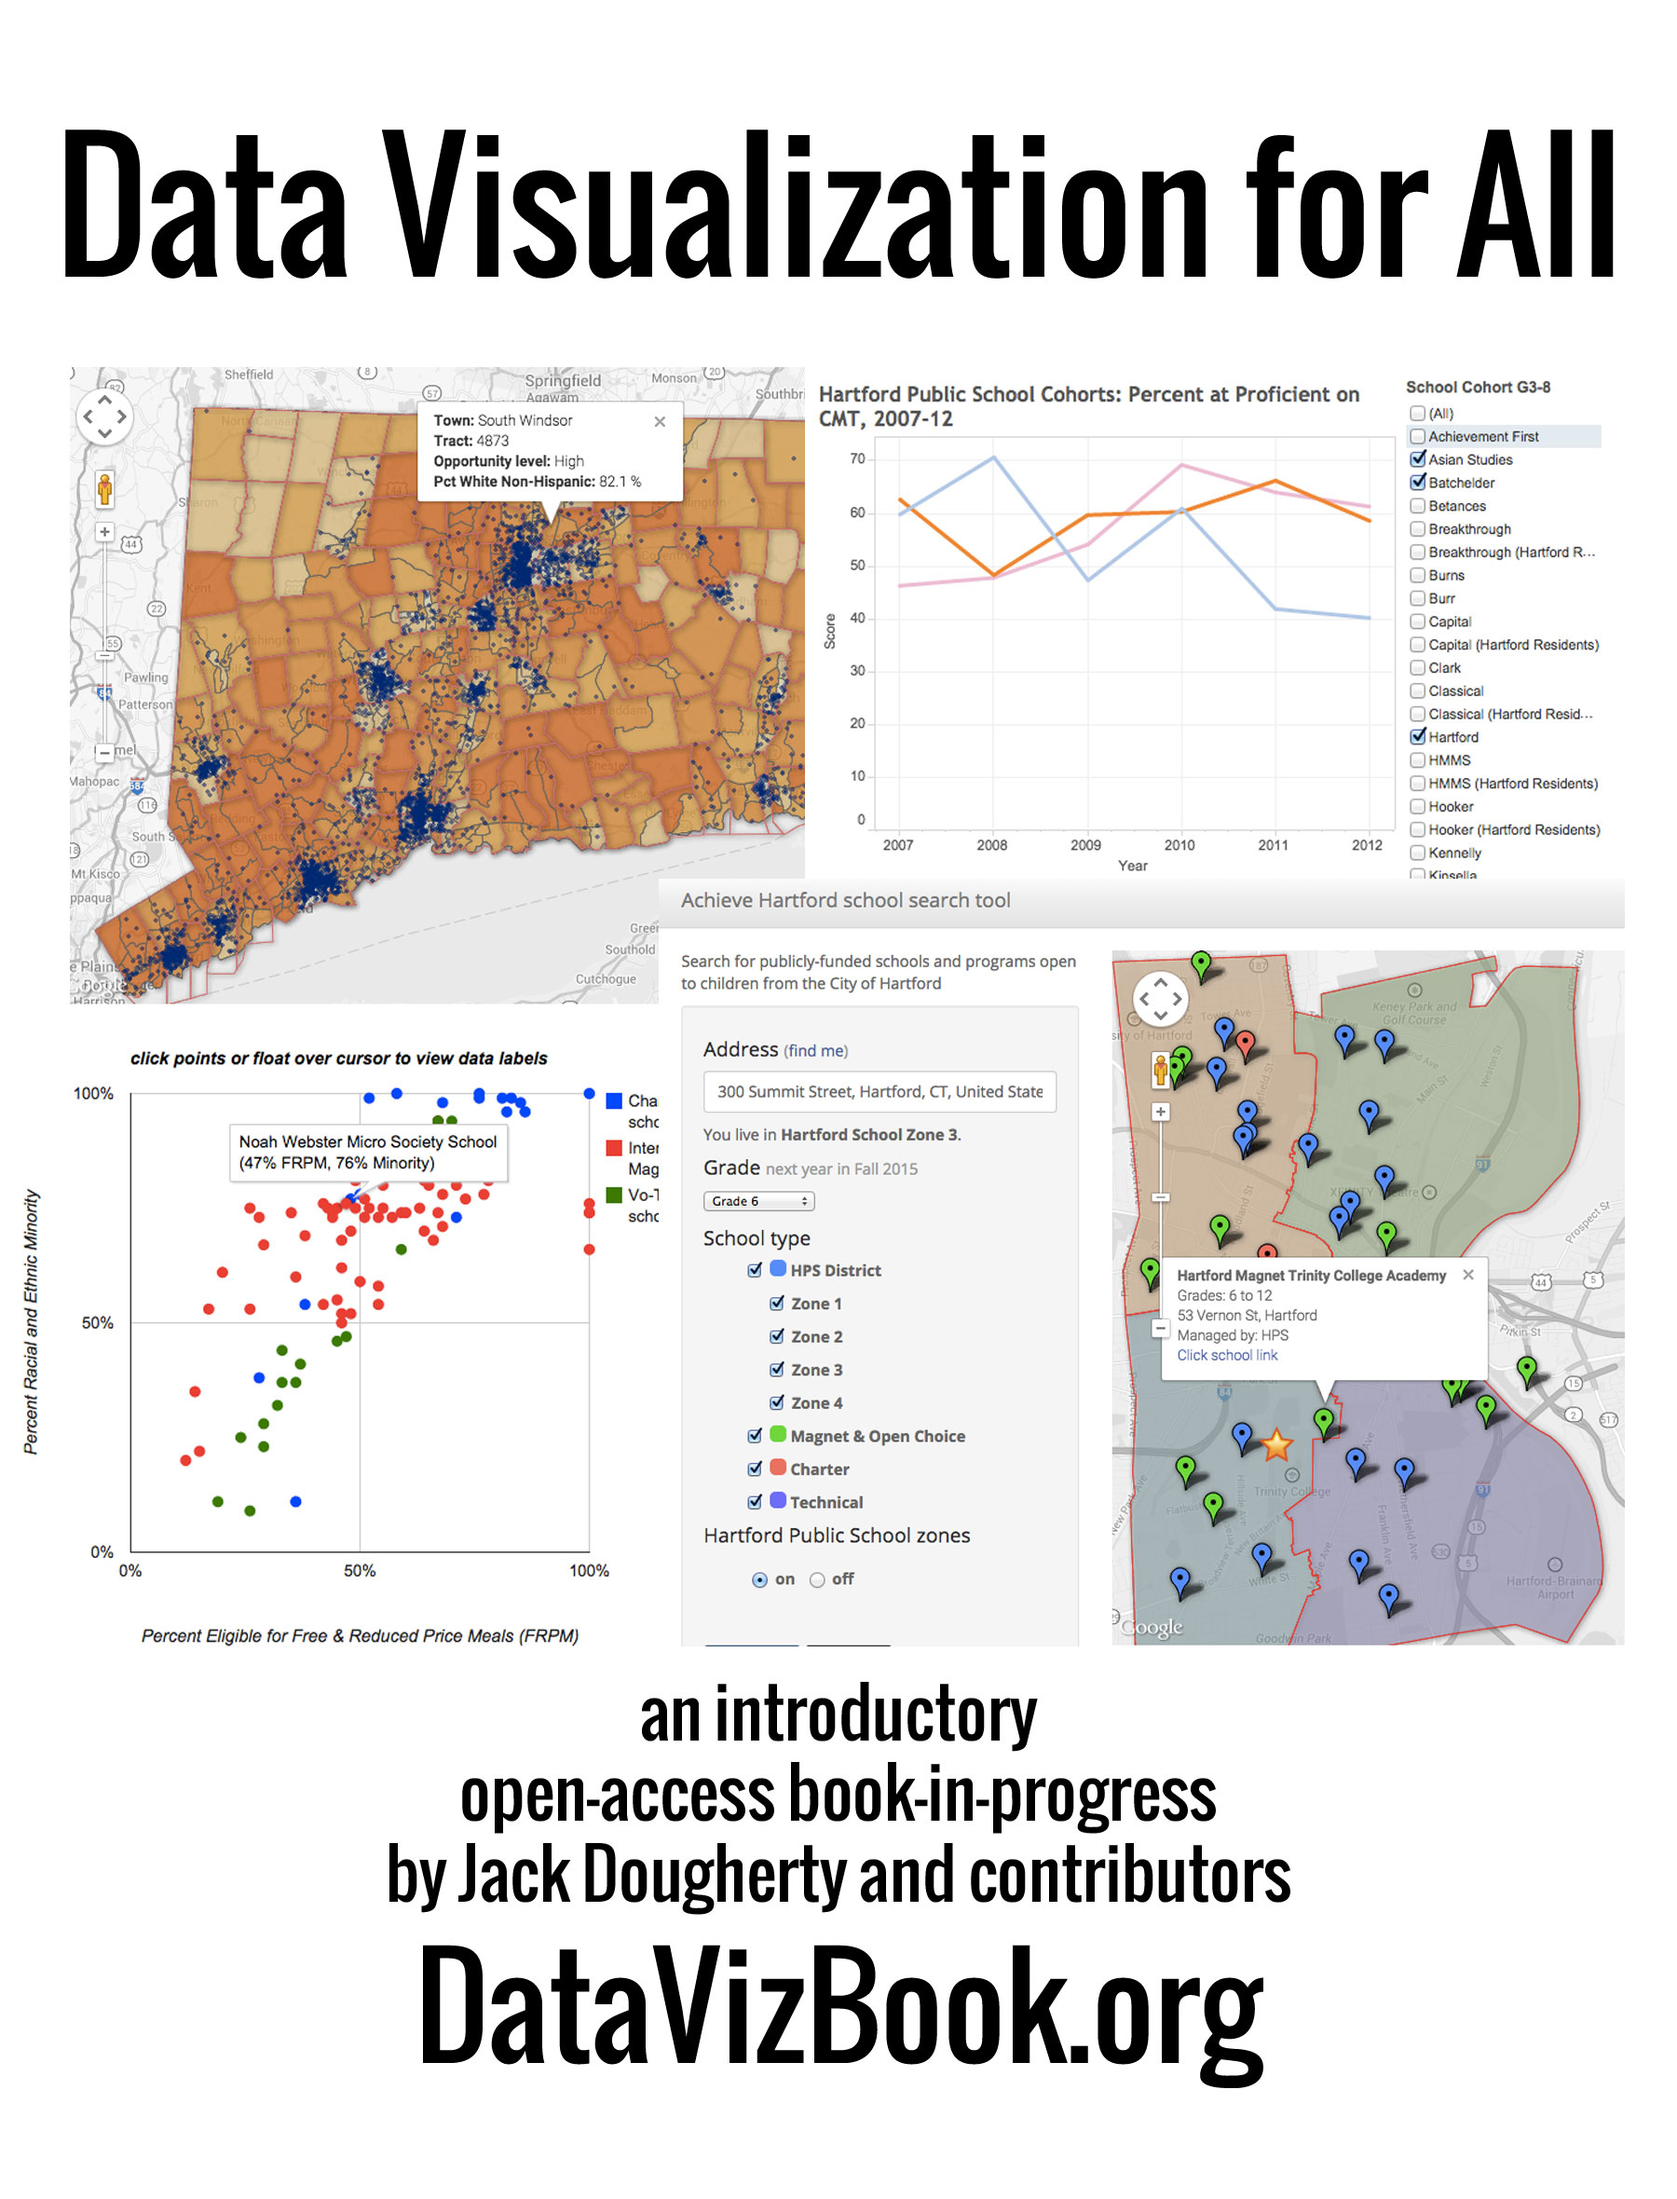
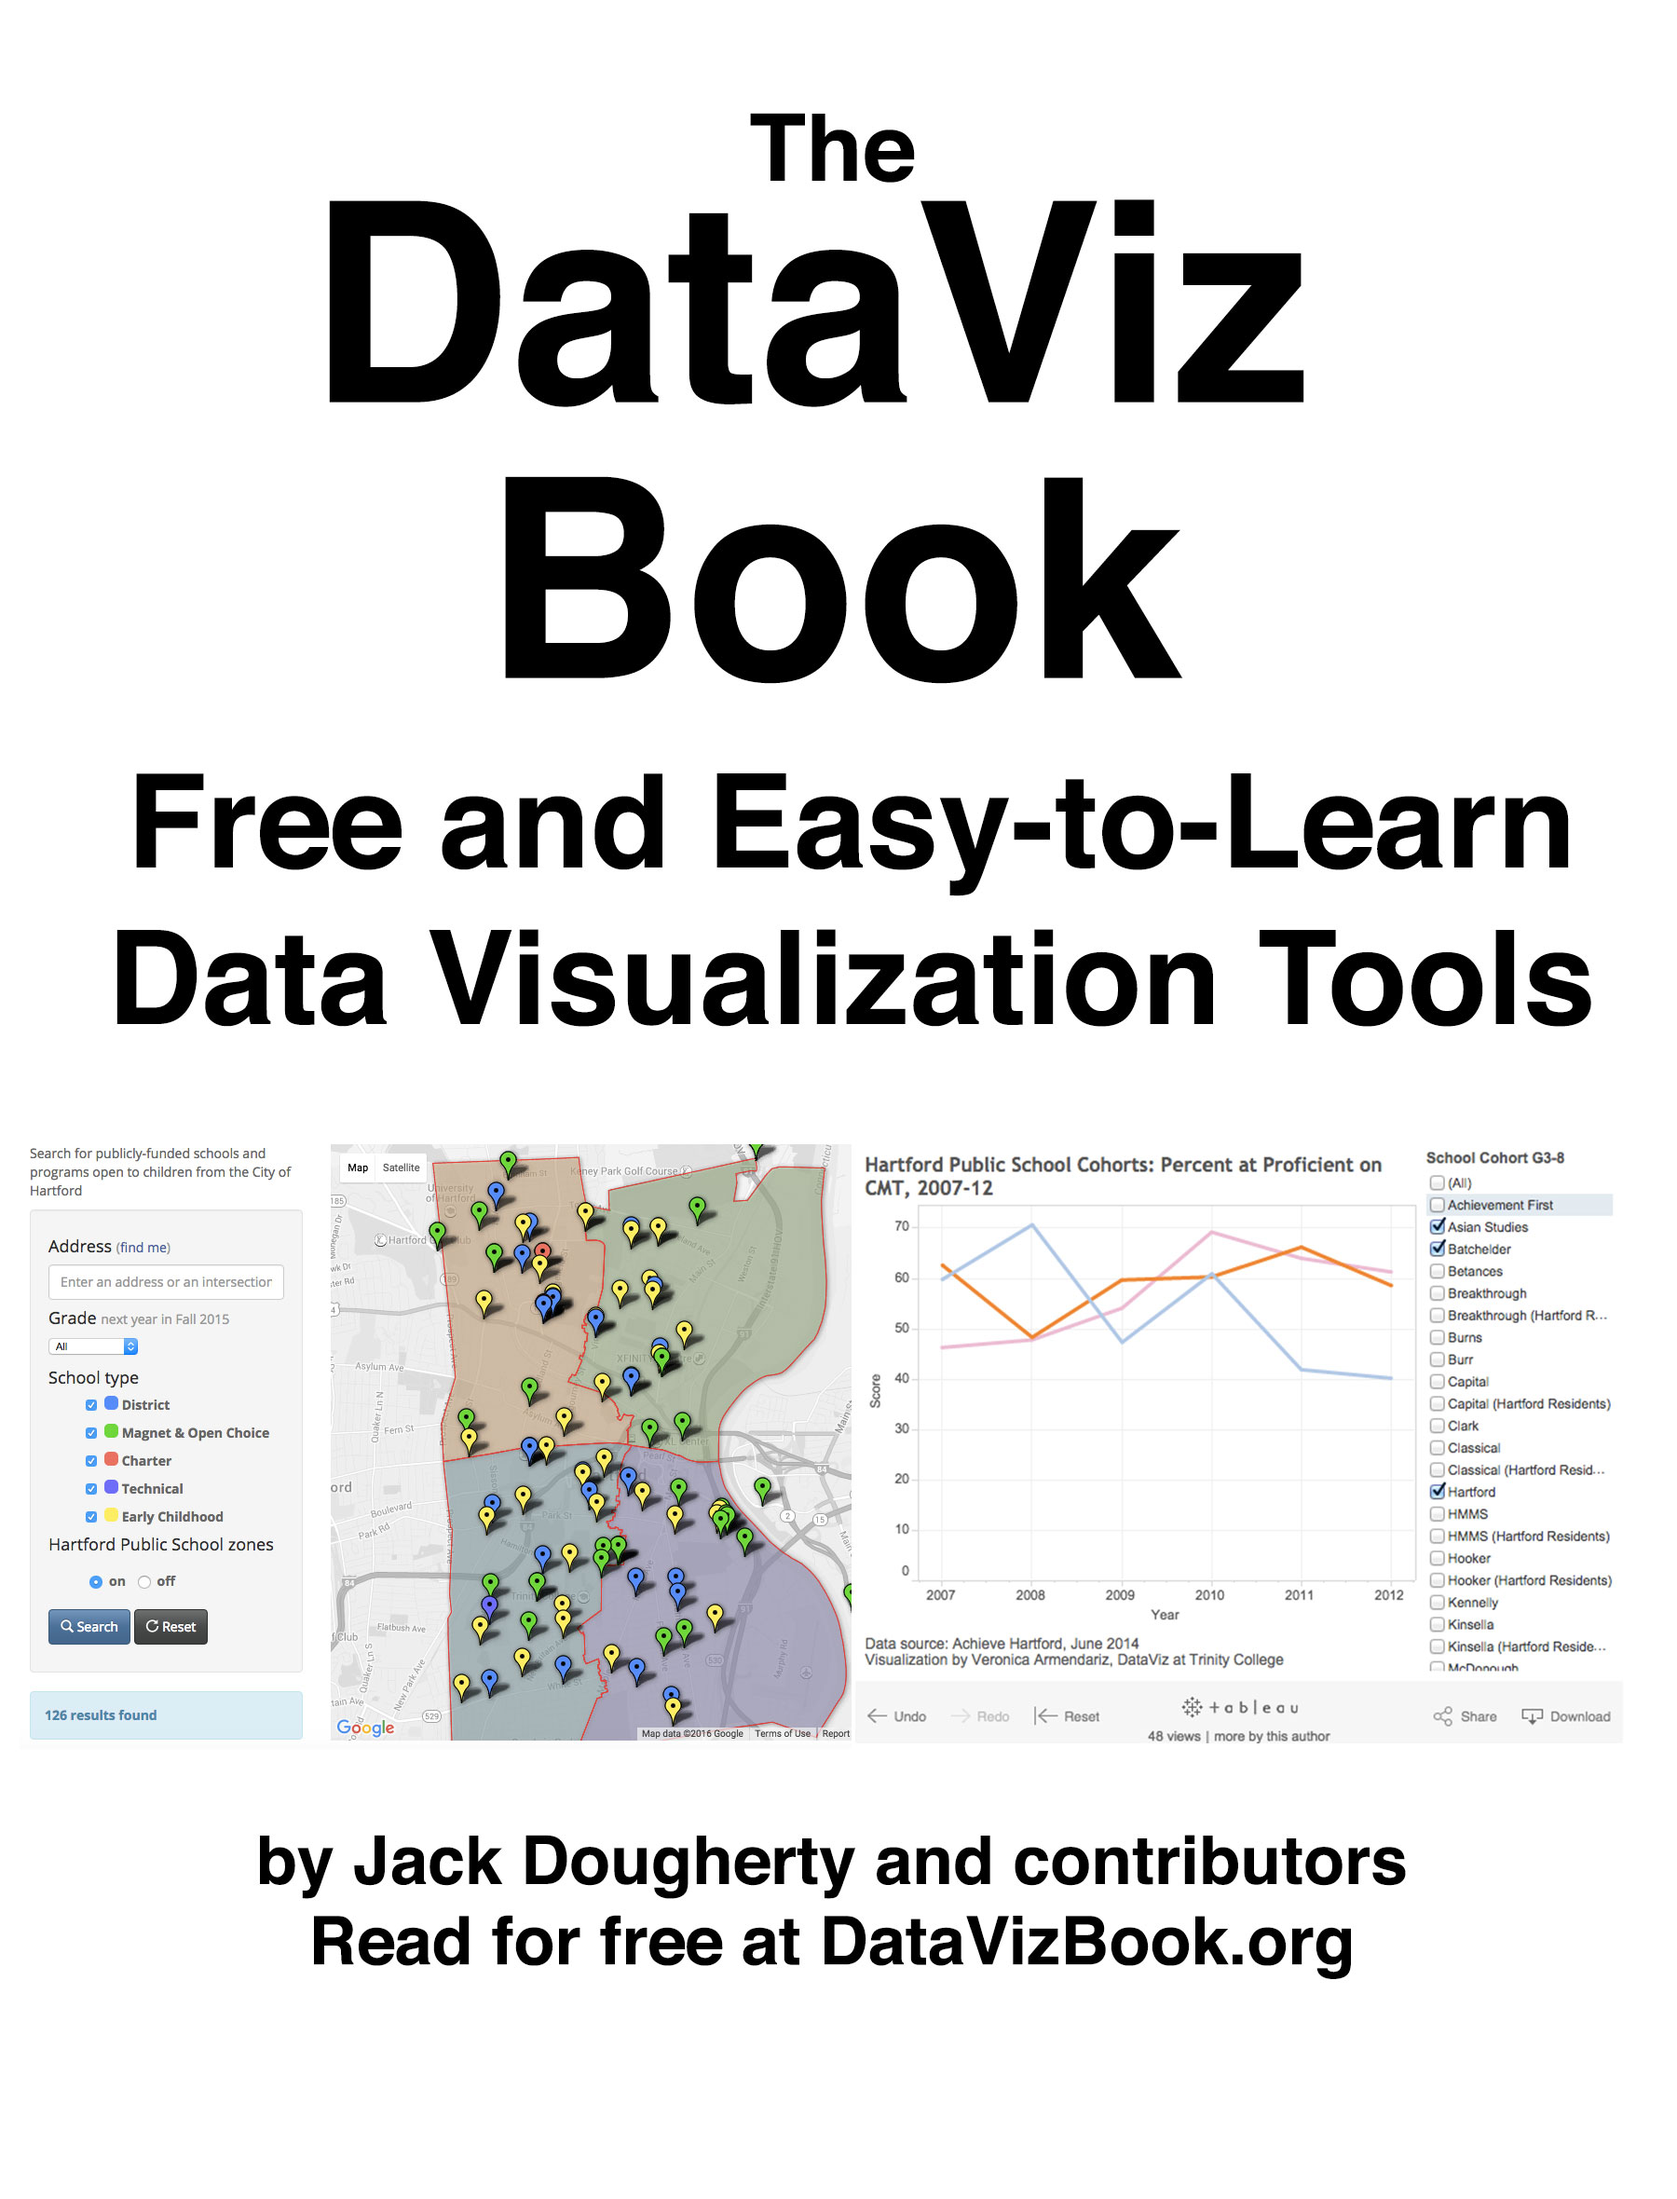
title and cover

diff --git a/README.md b/README.md
@@ -1,14 +1,12 @@
-![](cover_400.jpg)
+![](cover_300.jpg)
 
 ### Tell your story ***and*** show it with data.
 
-***Data Visualization for All*** illustrates how to create interactive charts and maps with easy-to-learn free tools and open data sources. This introductory textbook includes step-by-step tutorials, videos, and examples, so that everyday readers can design and embed data visualizations on their own websites, with no coding skills required. Featured tools include Google Fusion Tables, Tableau Public, and GitHub Pages.
+***The DataViz Book*** illustrates how to create interactive charts and maps with easy-to-learn free tools and open data sources. This introductory textbook includes step-by-step tutorials and vivid examples to design and embed data visualizations in your own website. No coding skills required. Featured tools include Tableau Public, Google Fusion Tables, and GitHub Pages in the browser. Freely read or download this book-in-progress at http://DataVizBook.org.
 
-[About the authors:](introduction/who.md) Jack Dougherty (Trinity College, CT), Veronica X. Armendariz, Derek Eder, and other contributors.
+[About the authors:](introduction/who.md) Jack Dougherty (Trinity College, CT) with contributors Veronica X. Armendariz, Derek Eder, and others.
 
-**Free to read** this open-access book at http://DataVizBook.org.
-
-[Read online](https://www.gitbook.com/read/book/jackdougherty/datavizbook) (recommended) or download the [PDF](https://www.gitbook.com/download/pdf/book/jackdougherty/datavizbook) or [ePUB](https://www.gitbook.com/download/epub/book/jackdougherty/datavizbook) or [Mobi/Kindle](https://www.gitbook.com/download/mobi/book/jackdougherty/datavizbook) versions.
+[Read online](https://www.gitbook.com/read/book/jackdougherty/datavizbook) (recommended) or download the [PDF](https://www.gitbook.com/download/pdf/book/jackdougherty/datavizbook) or [ePUB](https://www.gitbook.com/download/epub/book/jackdougherty/datavizbook) or [Mobi/Kindle](https://www.gitbook.com/download/mobi/book/jackdougherty/datavizbook) editions.
 
 [Improve this book-in-progress](gitbook/improve.md) by adding comments.
 
